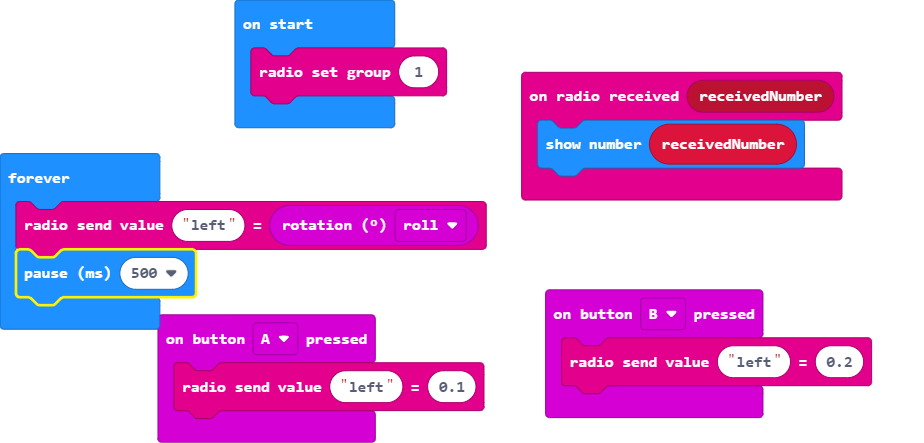
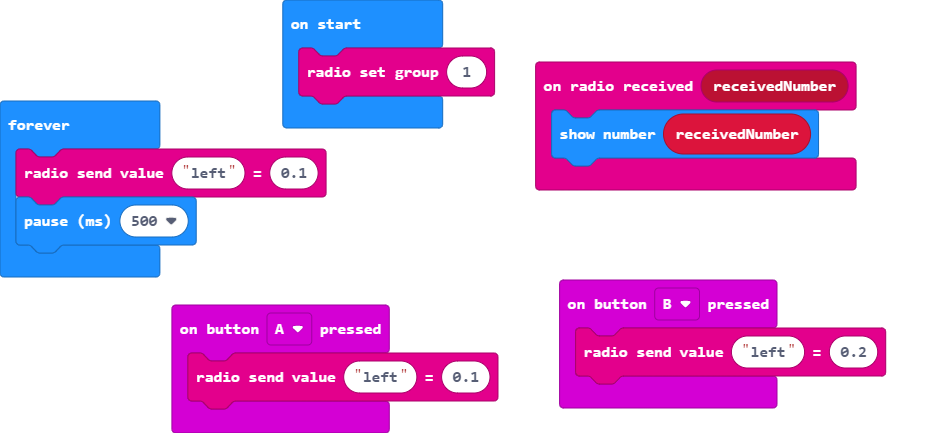
Update main.blocks, main.ts

Changed region(s): [[0.0, 0.2102, 0.5455, 1.0], [0.2424, 0.0, 0.9394, 0.4804], [0.5758, 0.6305, 0.9697, 0.9607]]

diff --git a/main.ts b/main.ts
@@ -9,6 +9,6 @@ input.onButtonPressed(Button.B, function () {
 })
 radio.setGroup(1)
 basic.forever(function () {
-    radio.sendValue("left", input.rotation(Rotation.Roll))
+    radio.sendValue("left", 0.1)
     basic.pause(500)
 })
